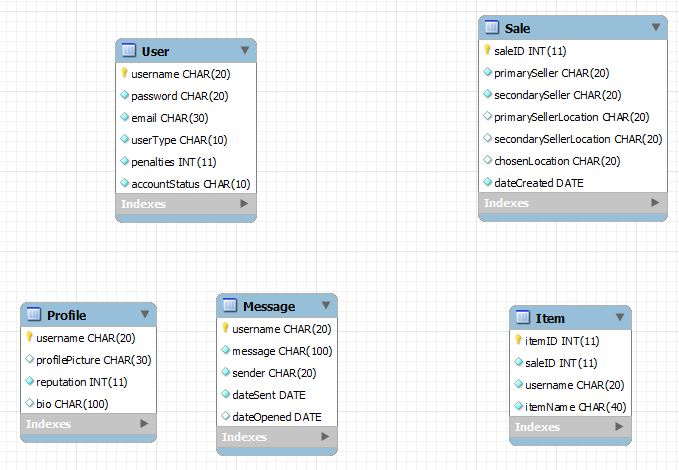
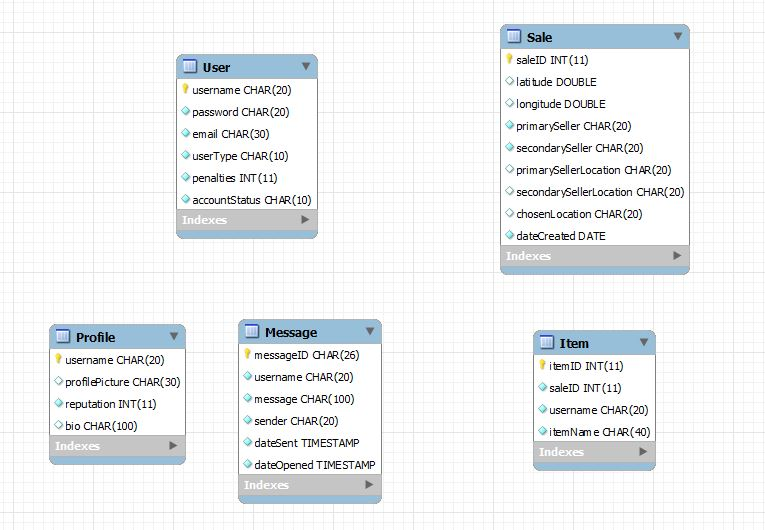
Began some really basic test cases. Updated the database model. Fixed some little problems.

diff --git a/src/test/java/ourTests/EntitiesTests.java b/src/test/java/ourTests/EntitiesTests.java
@@ -1,0 +1,82 @@
+package ourTests;
+
+import java.sql.Date;
+
+import org.junit.Test;
+
+import junit.framework.TestCase;
+
+import com.entities.*;
+
+public class EntitiesTests extends TestCase {
+
+	Item item = new Item();
+	Message message = new Message();
+	Profile profile = new Profile();
+	Sale sale = new Sale();
+	User user = new User();
+	
+	
+	@Test
+	public void testItem() {
+		item.setItemID(15);
+		item.setItemName("Test Item");
+		item.setSaleID(21);
+		item.setUsername("TestUser");
+		
+		assertEquals("15Test Item21TestUser", Integer.toString(item.getItemID()) + item.getItemName() + Integer.toString(item.getSaleID()) + item.getUsername());
+	}
+	
+	@SuppressWarnings("deprecation")
+	@Test
+	public void testMessage() {
+		message.setDateOpened(new Date(114, 11, 3));
+		message.setDateSent(new Date(114, 11, 1));
+		message.setMessage("TestContent");
+		message.setMessageID("MessageID");
+		message.setSender("TestSender");
+		message.setUsername("TestUsername");
+		
+		assertEquals("2014-12-032014-12-01TestContentMessageIDTestSenderTestUsername", 
+				message.getDateOpened().toString() + message.getDateSent().toString() + message.getMessage() + 
+				message.getMessageID() + message.getSender() + message.getUsername());
+	}
+	
+	@Test public void testProfile() {
+		profile.setBio("TestBio");
+		profile.setProfilePicture("TestLocation");
+		profile.setReputation(5);
+		profile.setUsername("TestUser");
+		assertEquals("TestBioTestLocation5TestUser", profile.getBio() + profile.getProfilePicture() + Integer.toString(profile.getReputation()) + profile.getUsername());
+	}
+	
+	@SuppressWarnings("deprecation")
+	@Test public void testSale() {
+		sale.setChosenLocation("Pearson Hall");
+		sale.setDateCreated(new Date(114, 11, 3));
+		sale.setLatitude(55.01);
+		sale.setLongitude(43.22);
+		sale.setPrimarySeller("PrimarySeller");
+		sale.setSaleID(65);
+		sale.setSecondarySeller("SecondarySeller");
+		sale.setSecondarySellerLocation("OtherPlace");
+		
+		assertEquals("Pearson Hall2014-12-0355.0143.22PrimarySeller65SecondarySellerOtherPlace", sale.getChosenLocation() + sale.getDateCreated().toString() + 
+				Double.toString(sale.getLatitude()) + Double.toString(sale.getLongitude()) + sale.getPrimarySeller() + Integer.toString(sale.getSaleID()) + 
+				sale.getSecondarySeller() + sale.getSecondarySellerLocation());
+	}
+	
+	@Test public void testUser() {
+		user.setAccountStatus("TestAccountStatus");
+		user.setEmail("TestEmail");
+		user.setPassword("TestPassword");
+		user.setPenalties(6);
+		user.setUsername("TestUsername");
+		user.setUserType("TestType");
+		
+		assertEquals("TestAccountStatusTestEmailTestPassword6TestUsernameTestType", user.getAccountStatus() + user.getEmail() + user.getPassword() + 
+				Integer.toString(user.getPenalties()) + user.getUsername() + user.getUserType());
+	}
+	
+	
+}

diff --git a/src/main/java/com/persistenceResource/DataController.java b/src/main/java/com/persistenceResource/DataController.java
@@ -2,13 +2,11 @@ package com.persistenceResource;
 
 import java.awt.geom.Point2D;
 import java.util.ArrayList;
+import java.util.Date;
 import java.util.List;
-
 import javax.persistence.Query;
 import javax.persistence.EntityManager;
-import javax.persistence.criteria.CriteriaBuilder;
 import javax.servlet.http.HttpServletRequest;
-
 import com.entities.Message;
 import com.entities.User;
 import com.objectManagement.ObjectMapper;
@@ -200,7 +198,6 @@ public class DataController implements AbstractDataController {
 	 * @throws Exception
 	 */
 	public void createNewMessage(EntityManager em, String username, String message, String sender) throws Exception {
-		CriteriaBuilder cb = em.getCriteriaBuilder();
 		em.getTransaction().begin();
 		Message messageToSend = new Message();
 		messageToSend.setMessageID(SecureIDGenerator.nextSecureId());
@@ -208,7 +205,7 @@ public class DataController implements AbstractDataController {
 		messageToSend.setSender(sender);
 		messageToSend.setMessage(message);
 		messageToSend.setDateOpened(null);
-		messageToSend.setDateSent(cb.currentTimestamp());
+		messageToSend.setDateSent(new Date());
 		em.persist(messageToSend);
 		em.getTransaction().commit();
 		em.close();

diff --git a/src/main/java/com/entities/Message.java b/src/main/java/com/entities/Message.java
@@ -3,9 +3,6 @@ package com.entities;
 import java.io.Serializable;
 
 import javax.persistence.*;
-import javax.persistence.criteria.Expression;
-
-import java.sql.Timestamp;
 import java.util.Date;
 
 
@@ -27,7 +24,7 @@ public class Message implements Serializable {
 	private Date dateOpened;
 	
 	@Temporal(TemporalType.TIMESTAMP)
-	private Expression<Timestamp> dateSent;
+	private Date dateSent;
 
 	private String username;
 	
@@ -62,11 +59,11 @@ public class Message implements Serializable {
 		this.dateOpened = dateOpened;
 	}
 
-	public Expression<Timestamp> getDateSent() {
+	public Date getDateSent() {
 		return this.dateSent;
 	}
 
-	public void setDateSent(Expression<Timestamp> expression) {
+	public void setDateSent(Date expression) {
 		this.dateSent = expression;
 	}
 

diff --git a/src/main/java/com/restResource/RestController.java b/src/main/java/com/restResource/RestController.java
@@ -13,9 +13,11 @@ import com.persistenceResource.DataController;
 import com.persistenceResource.FactoryStartup;
 
 /**
- * This is our RestController class that contains the necassary information to make REST calls.
+ * This is our RestController class that contains the necessary information to make REST calls.
  * It can be seen that all of our calls start with the 'T11' base path. When a return is in order,
  * the return is made as a JSON String.
+ * 
+ * Username and password should be sent via jQuery header with the AJAX call so that the user identity may be verified.
  */
 @Path("/T11")
 public class RestController {

diff --git a/src/main/java/com/entities/Item.java b/src/main/java/com/entities/Item.java
@@ -23,6 +23,10 @@ public class Item implements Serializable {
 	private String username;
 
 	public Item() {
+		itemID = -1;
+		itemName = "";
+		saleID = -1;
+		username = "";
 	}
 
 	public int getItemID() {
